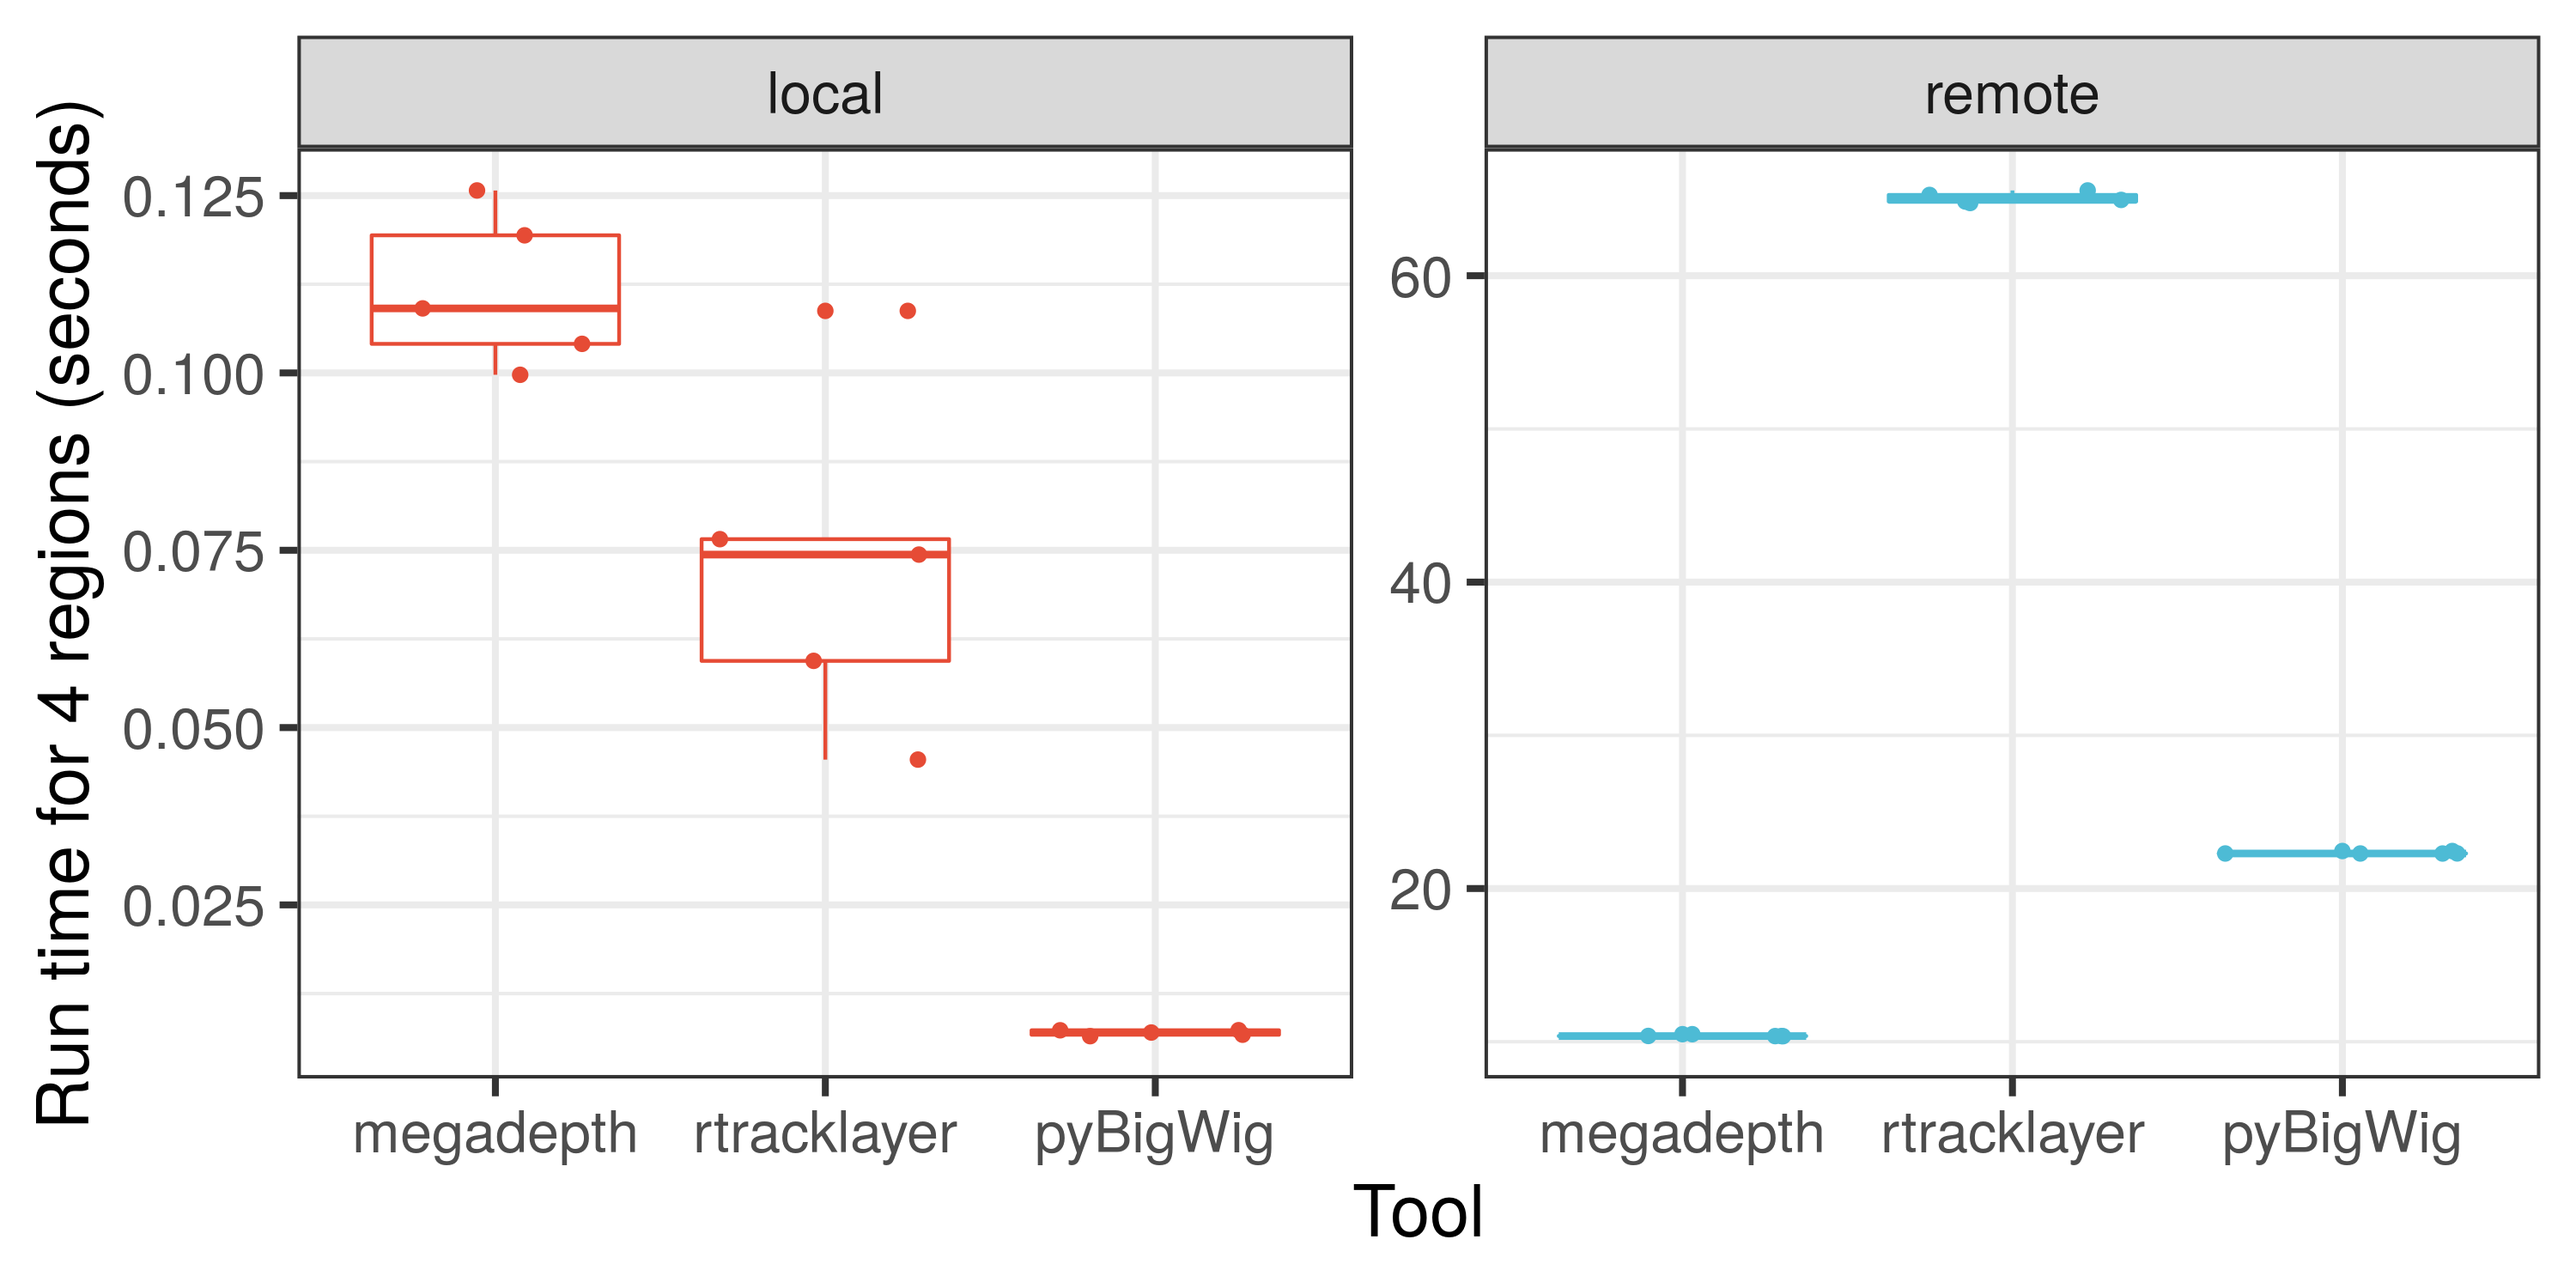
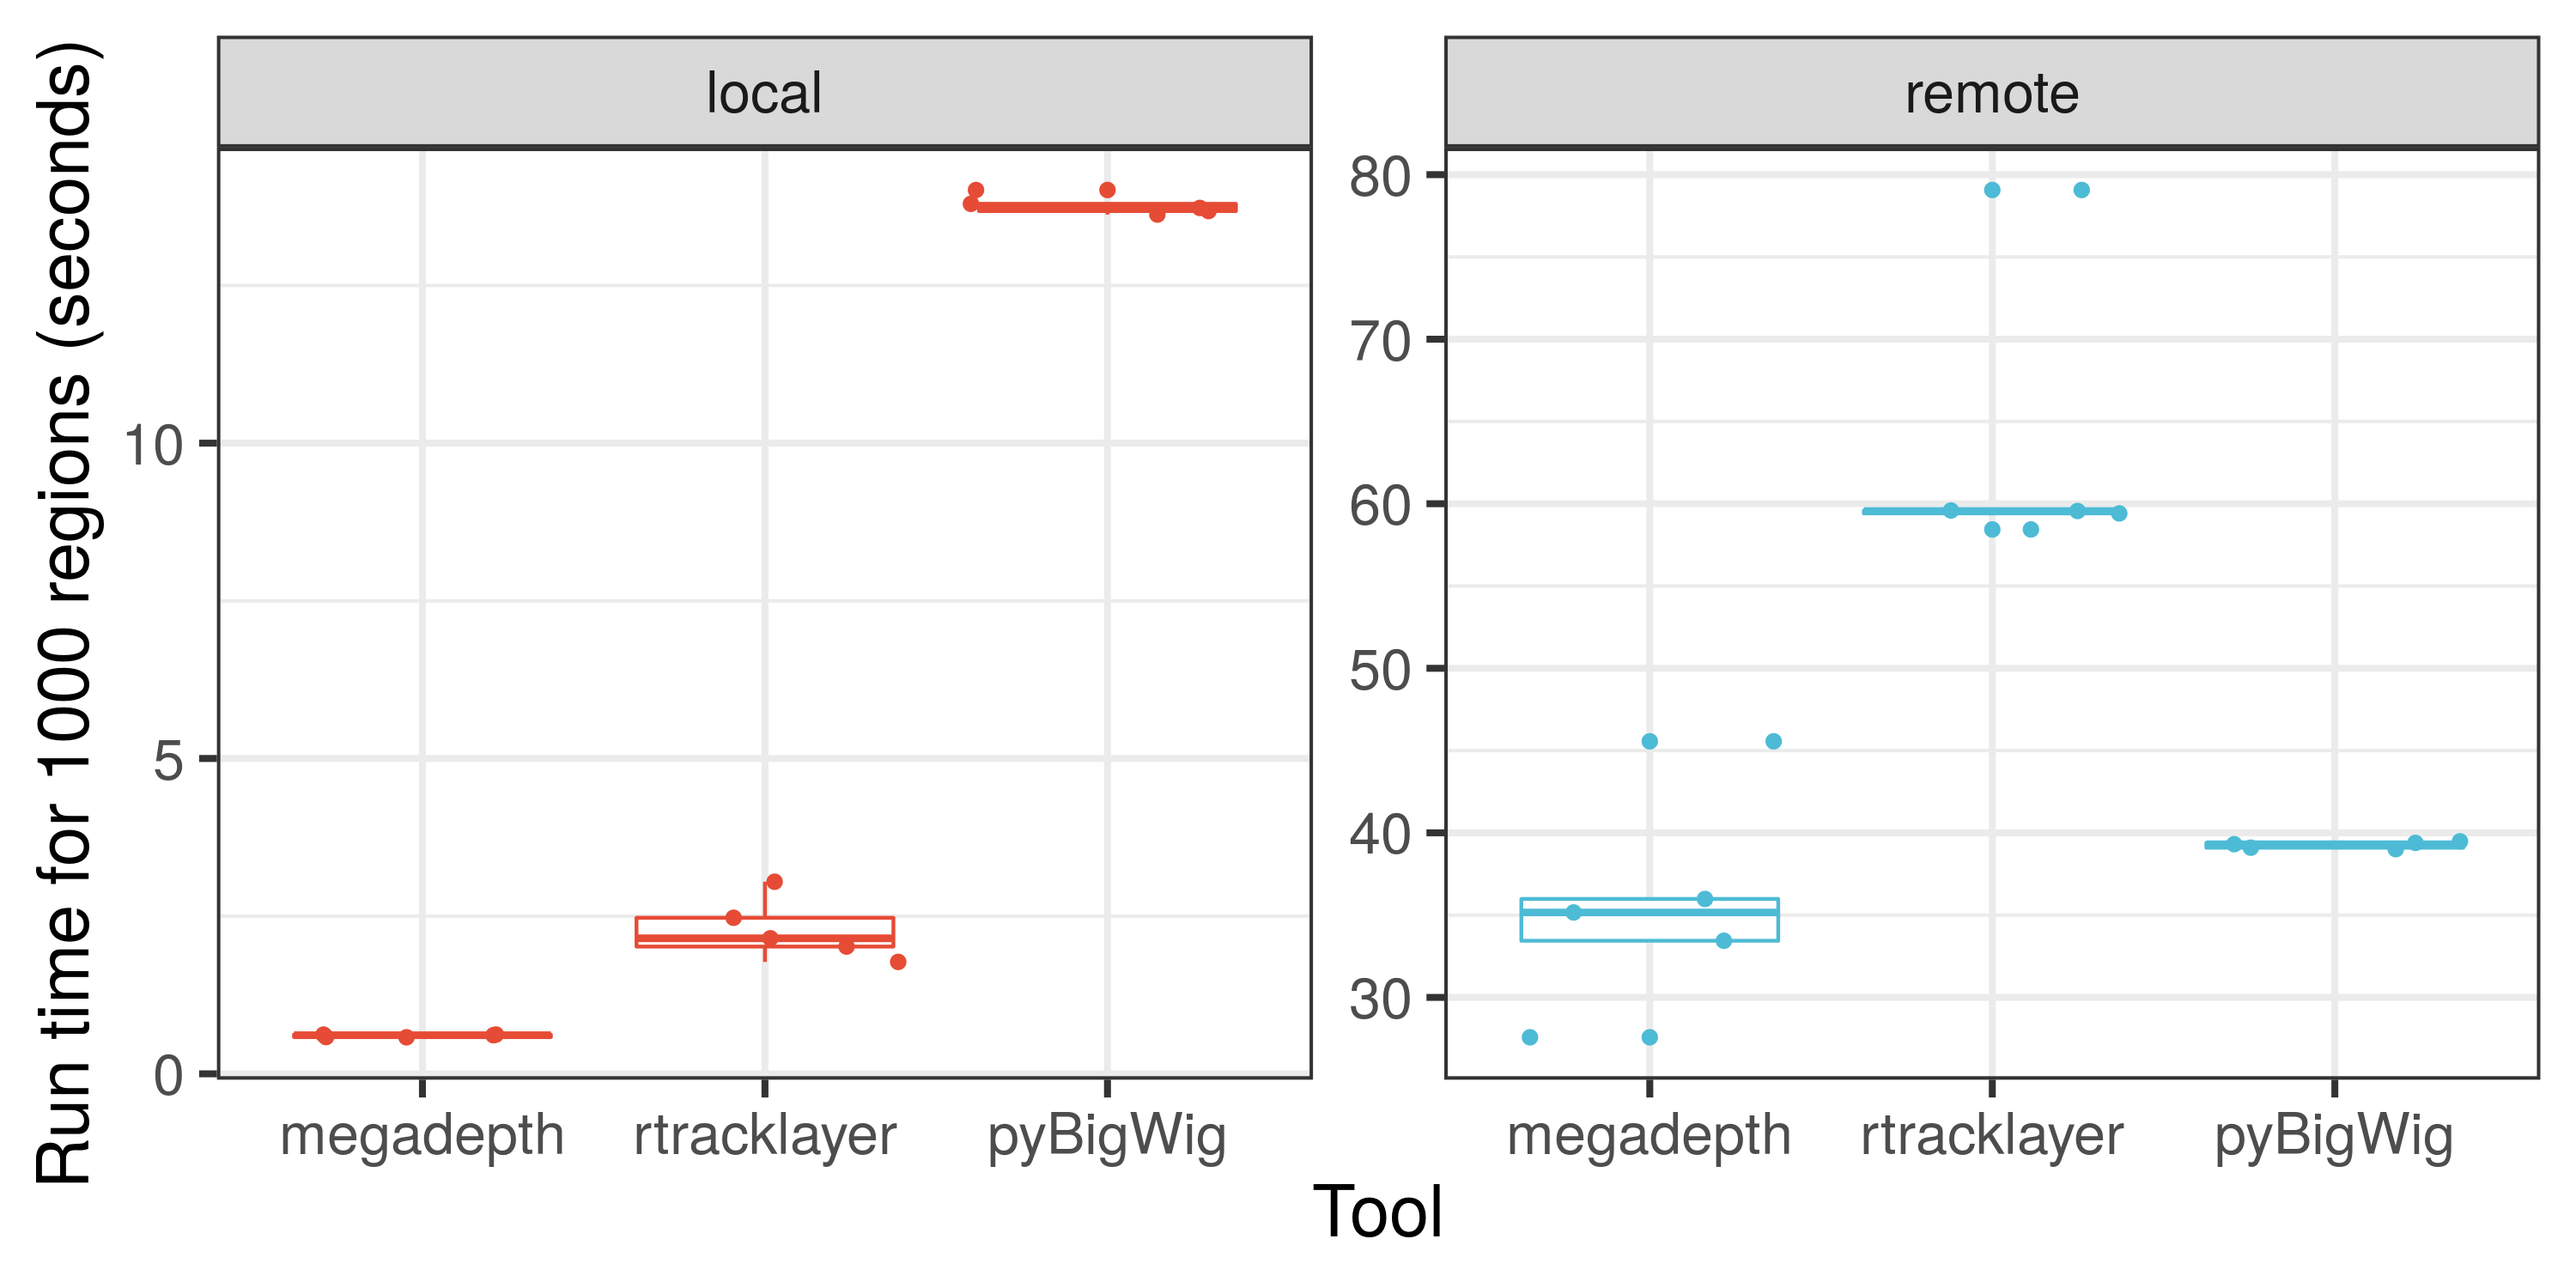
Use 5000 ranges and GTEx bws as input
Change the runtime comparison to a more realistic input.

diff --git a/analysis/test_pyBigWig.py b/analysis/test_pyBigWig.py
@@ -12,7 +12,7 @@ iterations = int(iterations)
 
 def get_coverage(bw_path, annotation_file, out_path, iterations):
 
-  annotation = pd.read_csv(annotation_file, sep = "\t", names = ["seqnames", "start", "end"])
+  annotation = pd.read_csv(annotation_file, sep = "\t", names = ["seqnames", "start", "end", "dummy1", "dummy2", "strand"])
 
   time_taken = []
 
